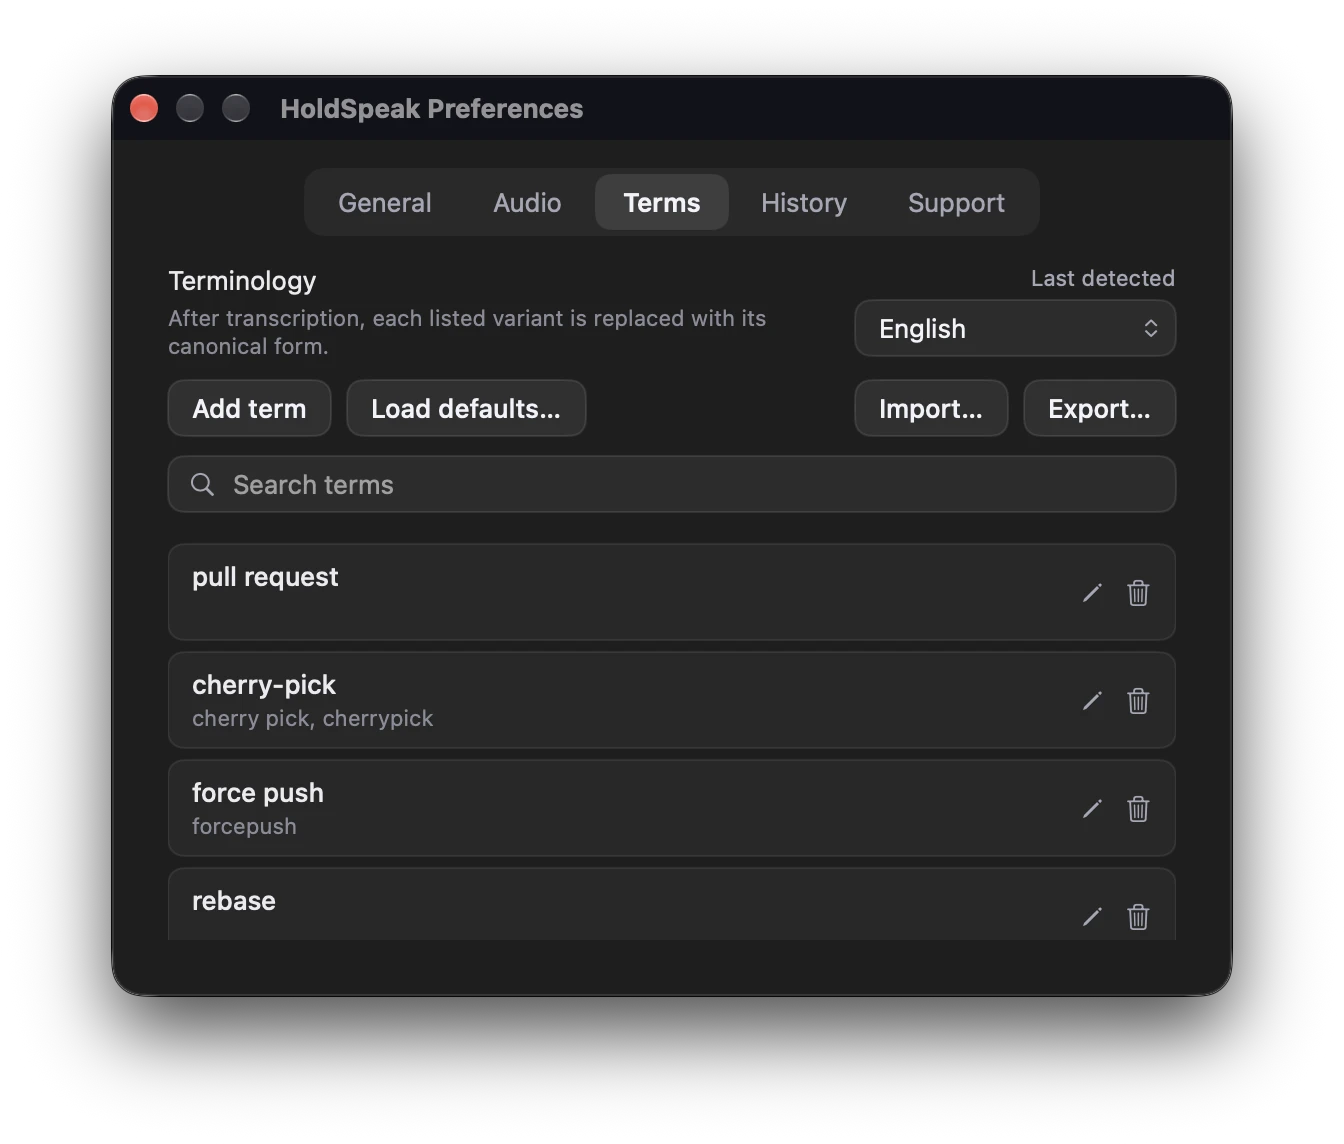
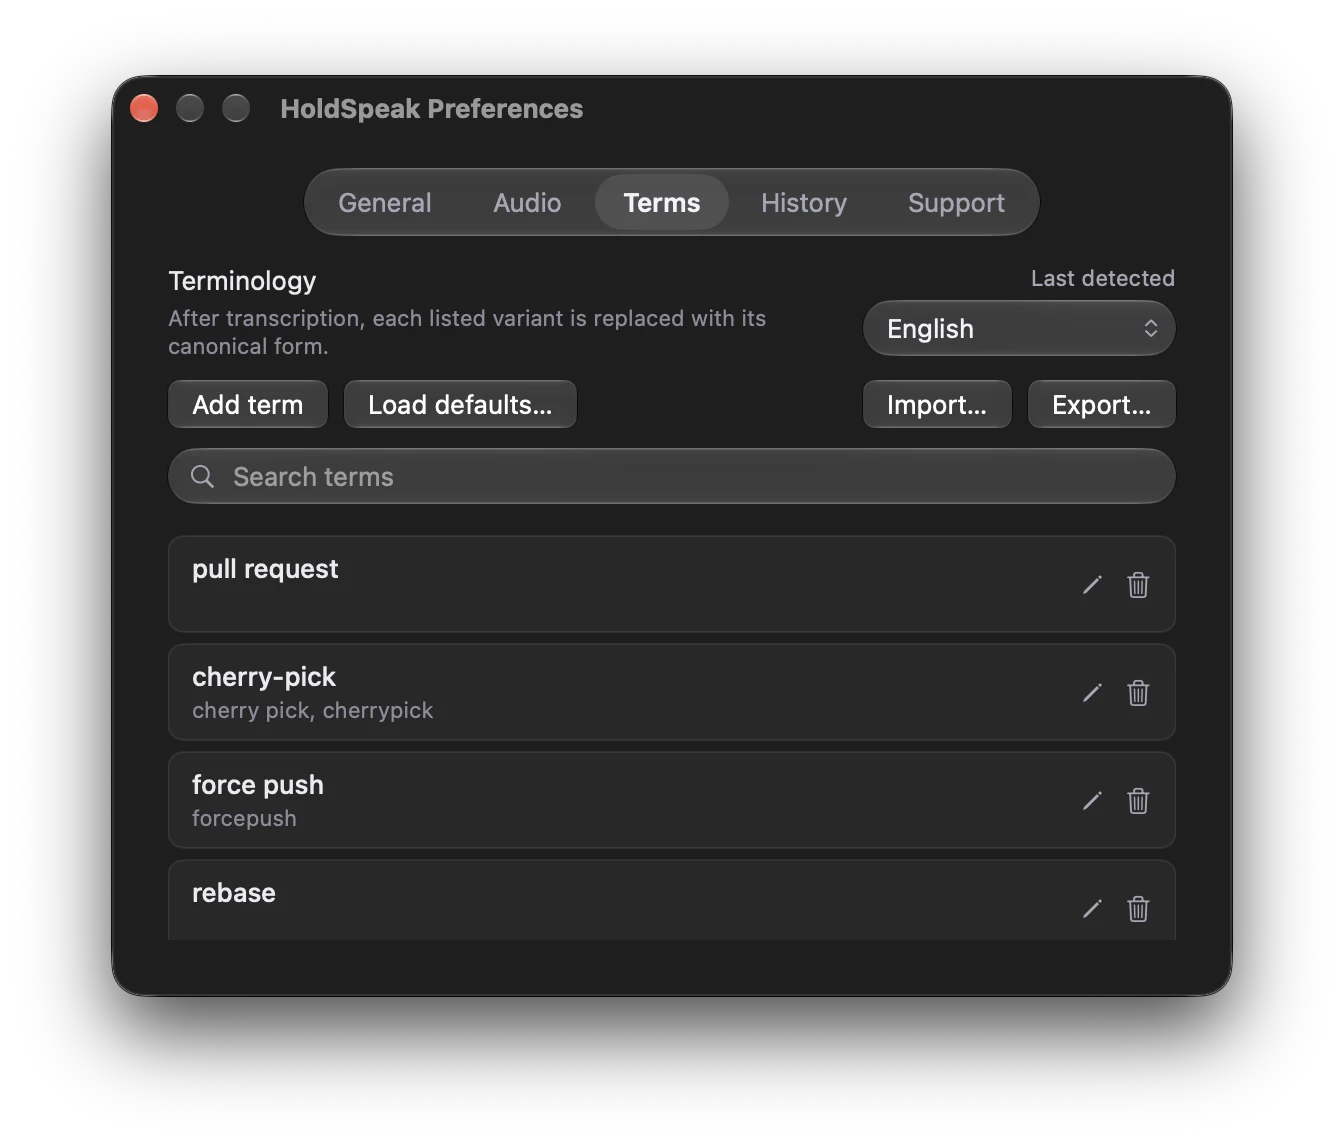
docs: README and screenshots for Liquid Glass and the dictation counter
Claude-Session: https://claude.ai/code/session_01UW6PCzVEEBfNMa1vERfy3C

diff --git a/README.md b/README.md
@@ -9,7 +9,7 @@
 Local push-to-talk dictation for macOS. HoldSpeak is a **menu bar app** (no Dock icon, no windows in the way) — it lives in the status bar and stays out of your workflow until you hold the hotkey. Speak, release — recognized text is inserted into the focused input. Local by default: Whisper runs on GPU via WhisperKit. Optionally, you can switch to Google Gemini with your own API key.
 
 <p align="center">
-  <img src="docs/screenshots/popover.webp?v=3" width="320" alt="Menu bar popover" />
+  <img src="docs/screenshots/popover.webp?v=4" width="360" alt="Menu bar popover" />
 </p>
 
 A free, local alternative to paid Whisper wrappers. Built for one reason: talking to AI is faster than typing to it. Average typing speed hovers around 40–60 wpm; comfortable speech is 130–160 wpm — two to three times faster. As more of the dev loop moves into prompts to AI agents, raw typing throughput becomes a real ceiling on how quickly you can iterate. HoldSpeak lifts it: hold the hotkey, speak a full thought, release, it lands in the input.
@@ -20,9 +20,10 @@ A free, local alternative to paid Whisper wrappers. Built for one reason: talkin
 - **Optional cloud engine** — Google Gemini with your own API key, for higher accuracy on mixed-language speech and jargon
 - **Code-switching RU/EN/UK and more** — in auto mode the language is chosen only from the ones you have in System Settings → Language & Region
 - **Insertion without clipboard** — via `CGEventKeyboardSetUnicodeString`; password fields are skipped
-- **Menu bar popover** with the last 10 transcriptions (click to copy) and metrics: total words, 7-day avg WPM
-- **HUD overlay** while you hold the key: black pill with a live mic level; if a dictation fails (no model, bad API key, quota), the reason shows in the same pill
+- **Menu bar popover** with recent transcriptions (click to copy) and metrics: dictations today / yesterday, 7-day avg WPM
+- **HUD overlay** while you hold the key: dark pill with a live mic level; if a dictation fails (no model, bad API key, quota), the reason shows in the same pill
 - **Light text cleanup** — trims long "eeeeee / mmmmm / ummm", collapses 3+ consecutive repeats, capitalizes the first letter and adds a period
+- **Liquid Glass** on macOS 26 and later — the HUD, popover, Preferences and onboarding use the system glass; macOS 13–15 keep the classic look
 - **Terminology dictionary** — canonical IT terms (pull request, Kubernetes, Claude Code, …) replace misrecognized Russian transliterations in transcripts; ships with ~110 defaults and is fully editable
 
 ## Install
@@ -40,7 +41,7 @@ On first launch, choose how speech is recognized — **Whisper** (on this Mac, d
 The onboarding window has Open… and Re-check buttons.
 
 <p align="center">
-  <img src="docs/screenshots/onboarding.webp" width="480" alt="Onboarding · choose Whisper or Gemini" />
+  <img src="docs/screenshots/onboarding.webp?v=4" width="480" alt="Onboarding · choose Whisper or Gemini" />
 </p>
 
 ### Updating
@@ -67,10 +68,10 @@ Pick a Gemini model in Preferences → Audio → **Model** (or choose Gemini dur
 
 1. Create a key at [Google AI Studio → API keys](https://aistudio.google.com/apikey).
 2. **Set up billing** for the key's project in AI Studio. Without billing the key runs on the free tier, which stops after a couple dozen dictations a day — HoldSpeak then shows *"Gemini daily limit reached — set up billing"* in the HUD.
-3. Paste the key in HoldSpeak and click **Save**. The key is checked with Google and stored in the macOS Keychain, never in preferences files; it survives app updates.
+3. Paste the key in HoldSpeak and click **Save**. The key is checked with Google and stored in the macOS Keychain, never in preferences files; it survives app updates. After each update macOS asks once to let the new version read the key — enter your Mac password and click **Always Allow** (HoldSpeak is self-signed, so the Keychain sees every new build as a new app).
 
 <p align="center">
-  <img src="docs/screenshots/preferences-audio-gemini.webp" width="560" alt="Preferences · Audio with Gemini selected" />
+  <img src="docs/screenshots/preferences-audio-gemini.webp?v=4" width="560" alt="Preferences · Audio with Gemini selected" />
 </p>
 
 Models:
@@ -81,7 +82,7 @@ Models:
 If something goes wrong, the reason appears right in the HUD pill instead of a silent empty result:
 
 <p align="center">
-  <img src="docs/screenshots/hud-quota.webp" width="286" alt="HUD · Gemini daily limit reached" />
+  <img src="docs/screenshots/hud-quota.webp?v=4" width="334" alt="HUD · Gemini daily limit reached" />
 </p>
 
 Privacy: with Gemini, each dictation's audio is sent to Google. Whisper stays the default and never sends anything anywhere. Text cleanup, the "Add period" / "Capitalize" options and the terminology dictionary apply to both engines; Gemini also receives your dictionary's terms as spelling hints.
@@ -103,7 +104,7 @@ Combining **Tiny + explicit language** gives the lowest end-to-end latency. Comb
 1. Hold **Right Option** (or whatever you set in Preferences).
 2. Speak. A HUD appears in the top right corner (or bottom center — configurable) showing the mic level.
 3. Release the key. After ~1–2 s the text is inserted into the focused field.
-4. If the field lost focus — open the menu bar icon: it shows the last 10 transcriptions; click to copy.
+4. If the field lost focus — open the menu bar icon: it shows the recent transcriptions; click to copy.
 
 ### Short taps
 
@@ -118,9 +119,9 @@ By default, presses shorter than **150 ms** don't start recording — the key be
 - **Support**
 
 <p align="center">
-  <img src="docs/screenshots/preferences-general.webp" width="560" alt="Preferences · General" />
+  <img src="docs/screenshots/preferences-general.webp?v=4" width="560" alt="Preferences · General" />
   <br /><br />
-  <img src="docs/screenshots/preferences-audio.webp" width="560" alt="Preferences · Audio" />
+  <img src="docs/screenshots/preferences-audio.webp?v=4" width="560" alt="Preferences · Audio" />
 </p>
 
 ### Auto language detection
@@ -136,7 +137,7 @@ Whisper reliably recognizes common speech but routinely mangles IT terminology i
 > **Tip.** If Whisper keeps mangling the same word or name — a project codename, a library you use daily, a colleague's surname — stop fighting the model. Open **Preferences → Terms**, put the correct spelling in *Canonical*, and add the two or three variants Whisper tends to produce. Next time the word shows up it'll come out right without any hand-editing. That's the whole point of this feature: if you have to fix the transcript by hand every time, it's not dictation — it's a slower way to type. Teach the app once, save the corrections forever.
 
 <p align="center">
-  <img src="docs/screenshots/preferences-terms.webp" width="560" alt="Preferences · Terms" />
+  <img src="docs/screenshots/preferences-terms.webp?v=4" width="560" alt="Preferences · Terms" />
 </p>
 
 **Default dictionaries.** The app ships with curated IT defaults for **Russian (~110 entries)**, **English (~120)**, and **Ukrainian (~130)** — all spanning the whole dev cycle: VCS (pull request, rebase, cherry-pick), languages (TypeScript, Swift, Rust), frontend (React, Tailwind, Next.js), UX (wireframe, mockup, accessibility), backend (endpoint, middleware, migration), data (Postgres, Redis, ClickHouse), DevOps (Docker, Kubernetes, Helm chart), cloud (AWS, S3, Lambda), and AI tooling (Claude, MCP, Opus). On first launch the bundled lists are copied into your Application Support directory — from then on the files are yours.
